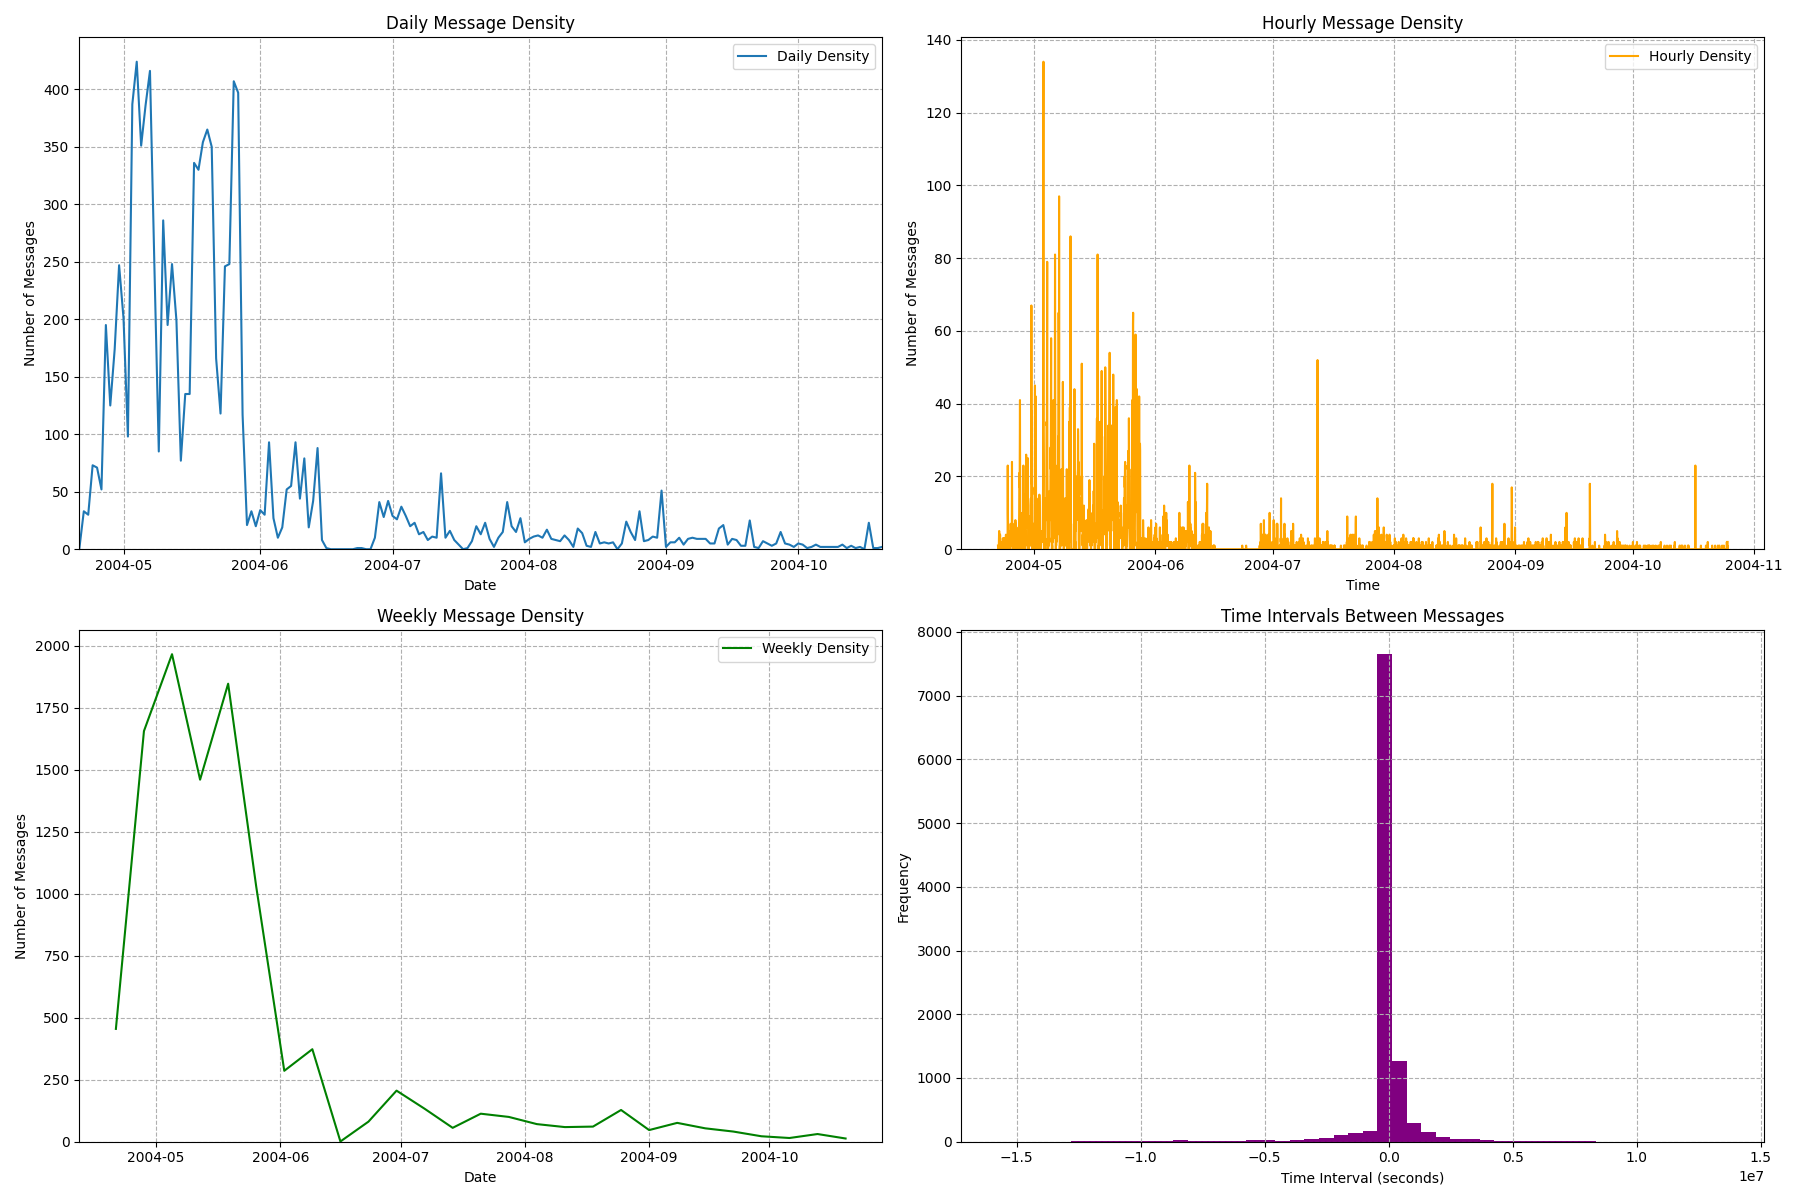
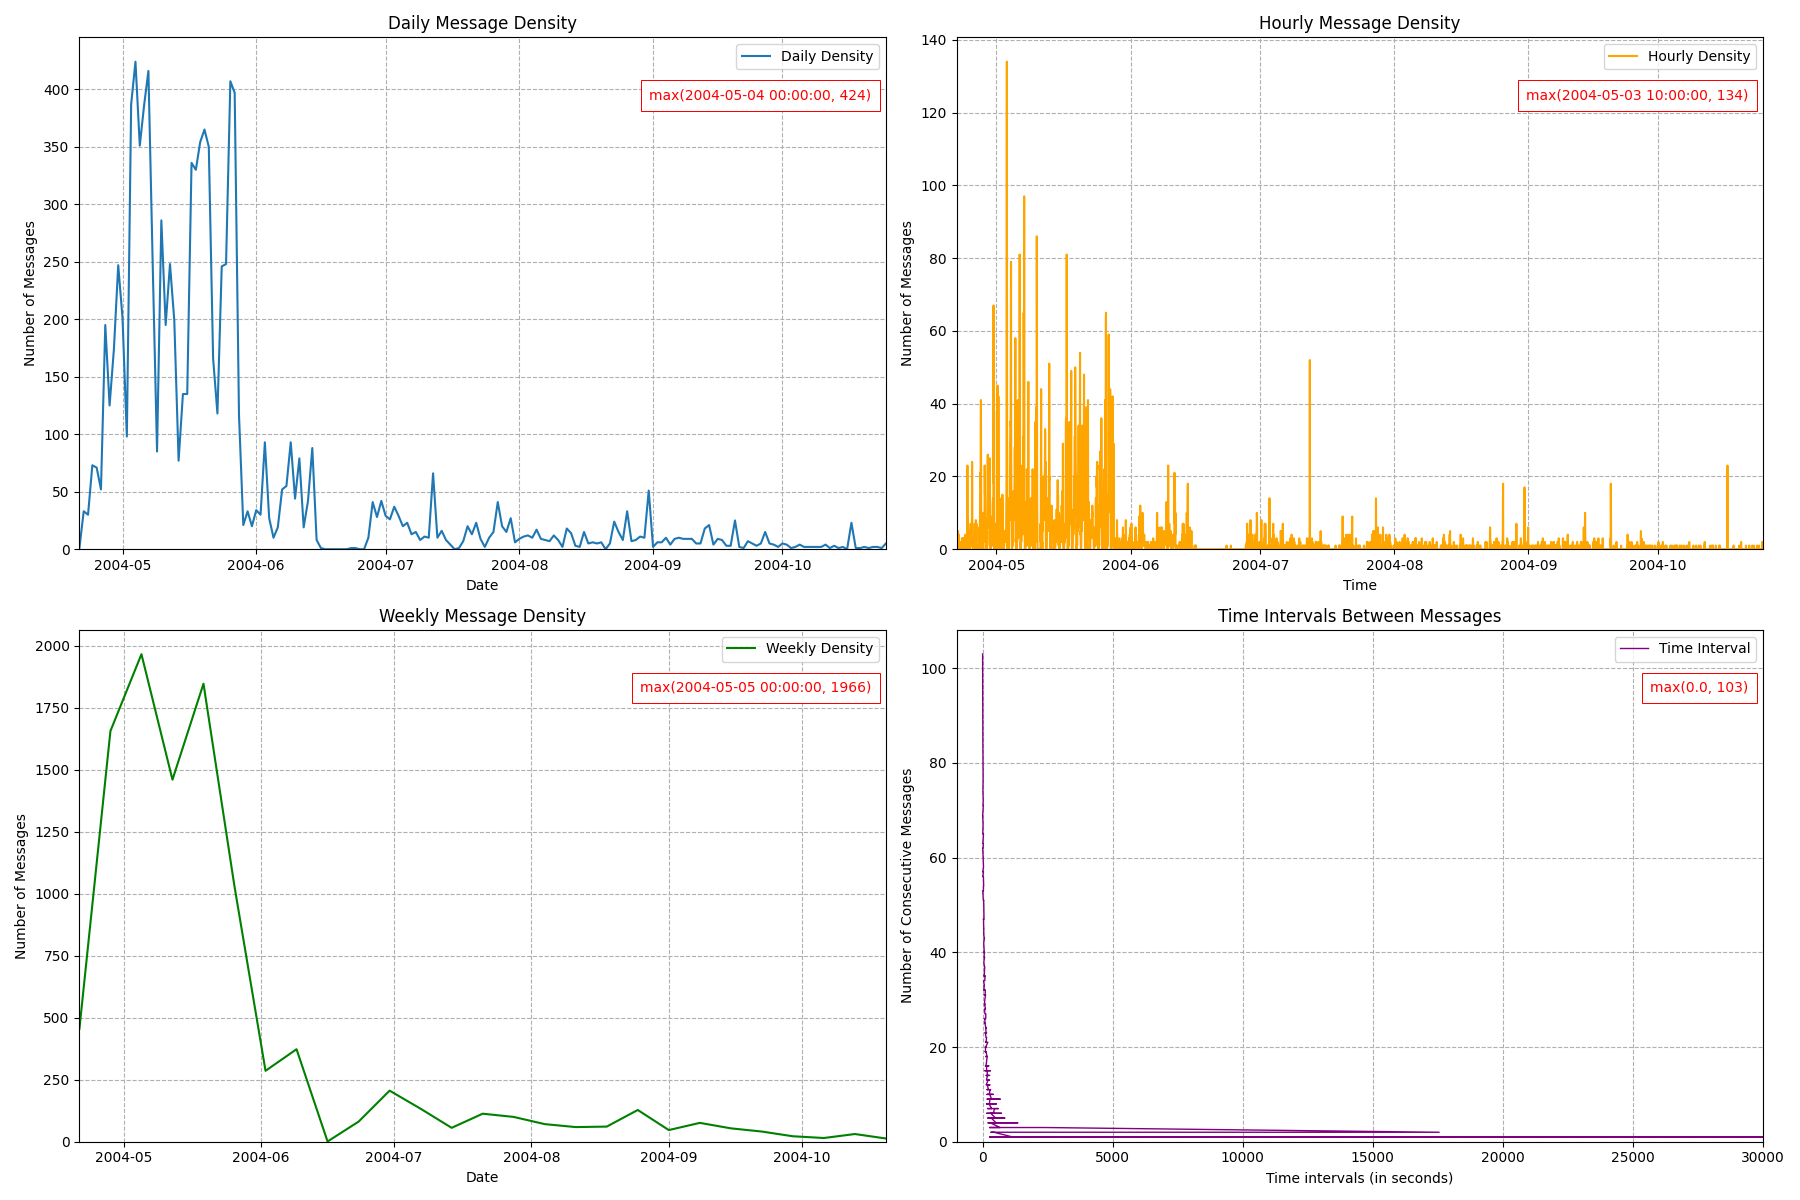
fixed time intervals plot

diff --git a/community_search.py b/community_search.py
@@ -305,19 +305,33 @@ def visualize_graph(graph: nx.Graph | nx.DiGraph | nx.MultiDiGraph, output_file:
     plt.savefig('./graph_plots/' + output_file + '.png', format='PNG')
     plt.close()
 
+def annot_max(density: pd.Series, ax=None):
+    xmax = density.idxmax()
+    ymax = density.max()
+    text= f"max({xmax}, {ymax})"
+    
+    if not ax:
+        ax=plt.gca()
+    
+    bbox_props = dict(boxstyle="square,pad=0.6", fc="w", edgecolor='red', lw=0.72)
+    kw = dict(xycoords='data',textcoords="axes fraction", bbox=bbox_props, ha="right", va="top")
+    ax.annotate(text, (xmax, ymax), xytext=(0.982, 0.90), color='red', **kw)
+
 def visualize_temporal(graph: nx.Graph, dataframe: pd.DataFrame, output_file: str):
     if graph.number_of_edges() > 0:
         edges_df = nx.to_pandas_edgelist(graph)
         
         filtered_df = pd.merge(edges_df, dataframe, on=['source', 'target'], how='inner')
-        filtered_df.set_index('timeStamp', inplace=True)
+        indexed_df = filtered_df.set_index('timeStamp')
         print(filtered_df)
         
-        day_density = filtered_df.resample('D').size()
-        hour_density = filtered_df.resample('1h').size()
-        week_density = filtered_df.resample('7D').size()
+        day_density = indexed_df.resample('D').size()
+        hour_density = indexed_df.resample('1h').size()
+        week_density = indexed_df.resample('7D').size()
         
-        time_intervals = filtered_df.index.to_series().diff().dropna().dt.total_seconds()
+        sorted_df = filtered_df.sort_values(by=['timeStamp'])
+        time_intervals = sorted_df['timeStamp'].diff().dropna().dt.total_seconds()
+        intervals = time_intervals.value_counts()
         
         fig, axes = plt.subplots(2, 2, figsize=(18, 12))
 
@@ -330,6 +344,7 @@ def visualize_temporal(graph: nx.Graph, dataframe: pd.DataFrame, output_file: st
         axes[0, 0].set_xlim(left=day_density.index.min(), right=day_density.index.max())
         axes[0, 0].set_ylim(bottom=0)
         axes[0, 0].grid(visible=True, linestyle='--')
+        annot_max(day_density, axes[0, 0])
 
         # Plot hour density
         axes[0, 1].plot(hour_density.index, hour_density.values, label='Hourly Density', color='orange')
@@ -337,9 +352,10 @@ def visualize_temporal(graph: nx.Graph, dataframe: pd.DataFrame, output_file: st
         axes[0, 1].set_xlabel('Time')
         axes[0, 1].set_ylabel('Number of Messages')
         axes[0, 1].legend()
-        axes[0, 0].set_xlim(left=hour_density.index.min(), right=hour_density.index.max())
+        axes[0, 1].set_xlim(left=hour_density.index.min(), right=hour_density.index.max())
         axes[0, 1].set_ylim(bottom=0)
         axes[0, 1].grid(visible=True, linestyle='--')
+        annot_max(hour_density, axes[0, 1])
 
         # Plot week density
         axes[1, 0].plot(week_density.index, week_density.values, label='Weekly Density', color='green')
@@ -347,17 +363,22 @@ def visualize_temporal(graph: nx.Graph, dataframe: pd.DataFrame, output_file: st
         axes[1, 0].set_xlabel('Date')
         axes[1, 0].set_ylabel('Number of Messages')
         axes[1, 0].legend()
-        axes[0, 0].set_xlim(left=week_density.index.min(), right=week_density.index.max())
+        axes[1, 0].set_xlim(left=week_density.index.min(), right=week_density.index.max())
         axes[1, 0].set_ylim(bottom=0)
         axes[1, 0].grid(visible=True, linestyle='--')
+        annot_max(week_density, axes[1, 0])
 
         # Plot time intervals
-        axes[1, 1].hist(time_intervals, bins=50, color='purple')
+        axes[1, 1].plot(intervals.index, intervals.values, label='Time Interval', color='purple', lw=1)
         axes[1, 1].set_title('Time Intervals Between Messages')
-        axes[1, 1].set_xlabel('Time Interval (seconds)')
-        axes[1, 1].set_ylabel('Frequency')
+        axes[1, 1].set_xlabel('Time intervals (in seconds)')
+        axes[1, 1].set_ylabel('Number of Consecutive Messages')
+        axes[1, 1].legend()
+        axes[1, 1].set_xlim(left=-1000, right=30000)
+        axes[1, 1].set_ylim(bottom=0)
         axes[1, 1].grid(visible=True, linestyle='--')
-
+        annot_max(intervals, axes[1, 1])
+        
         plt.tight_layout()
         plt.savefig('./graph_plots/' + output_file + '.png', format='PNG')
         plt.close()
